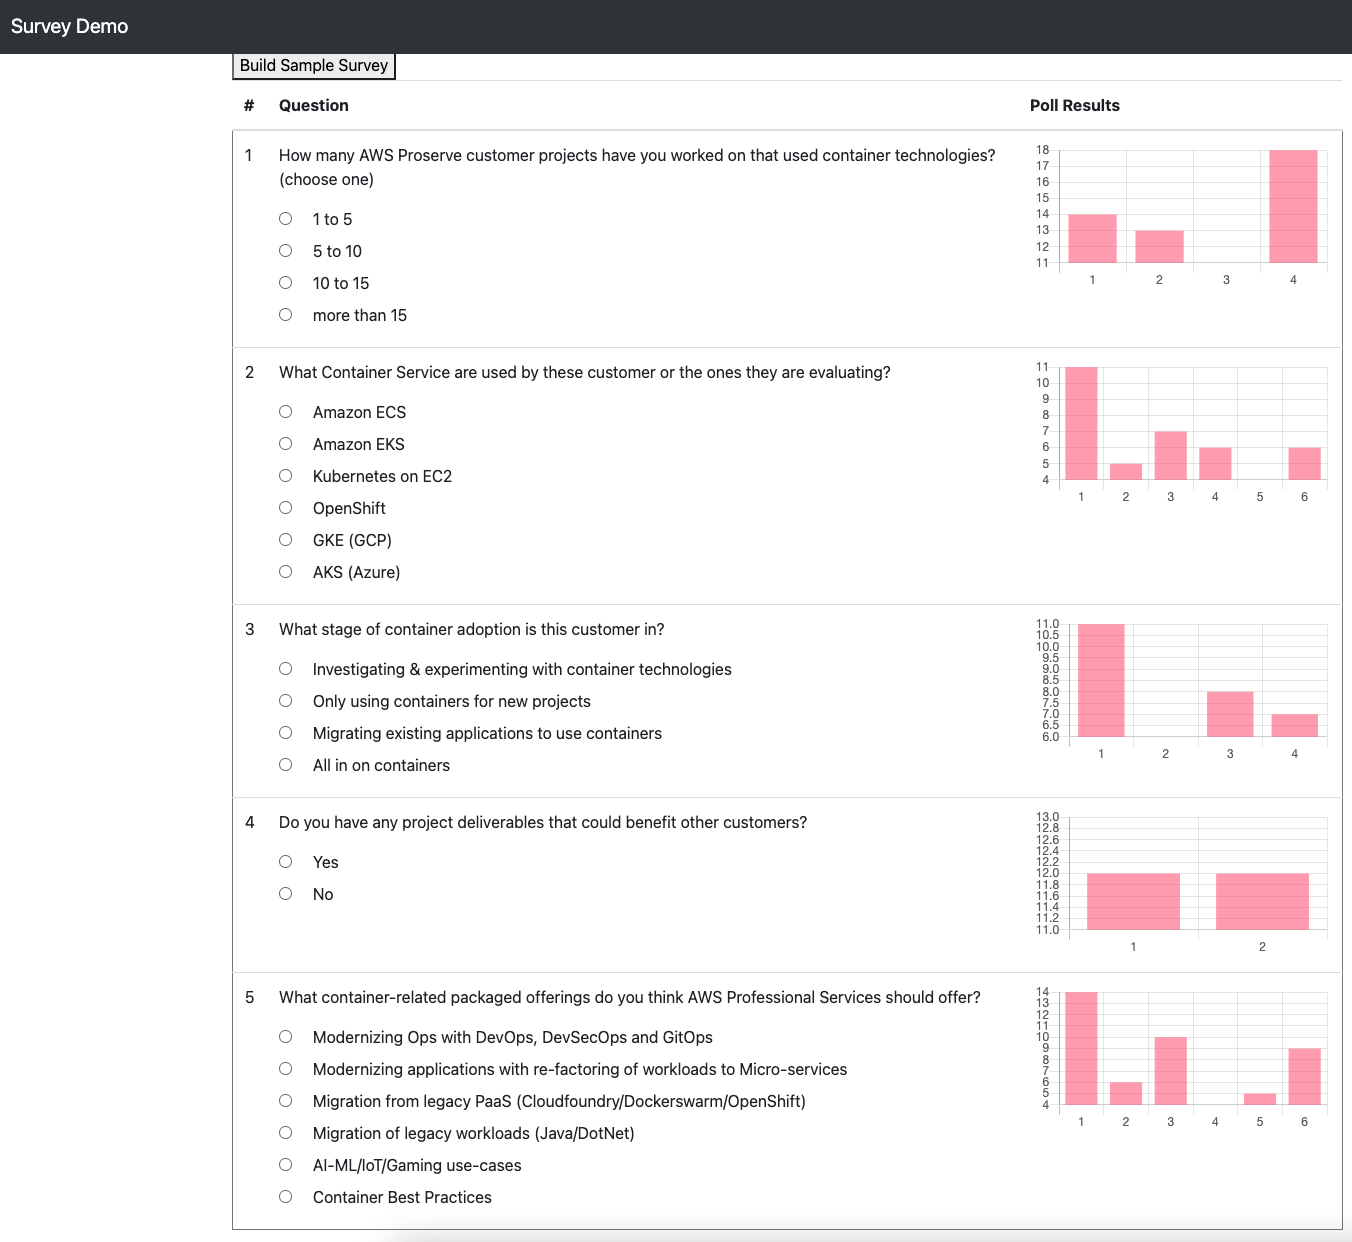
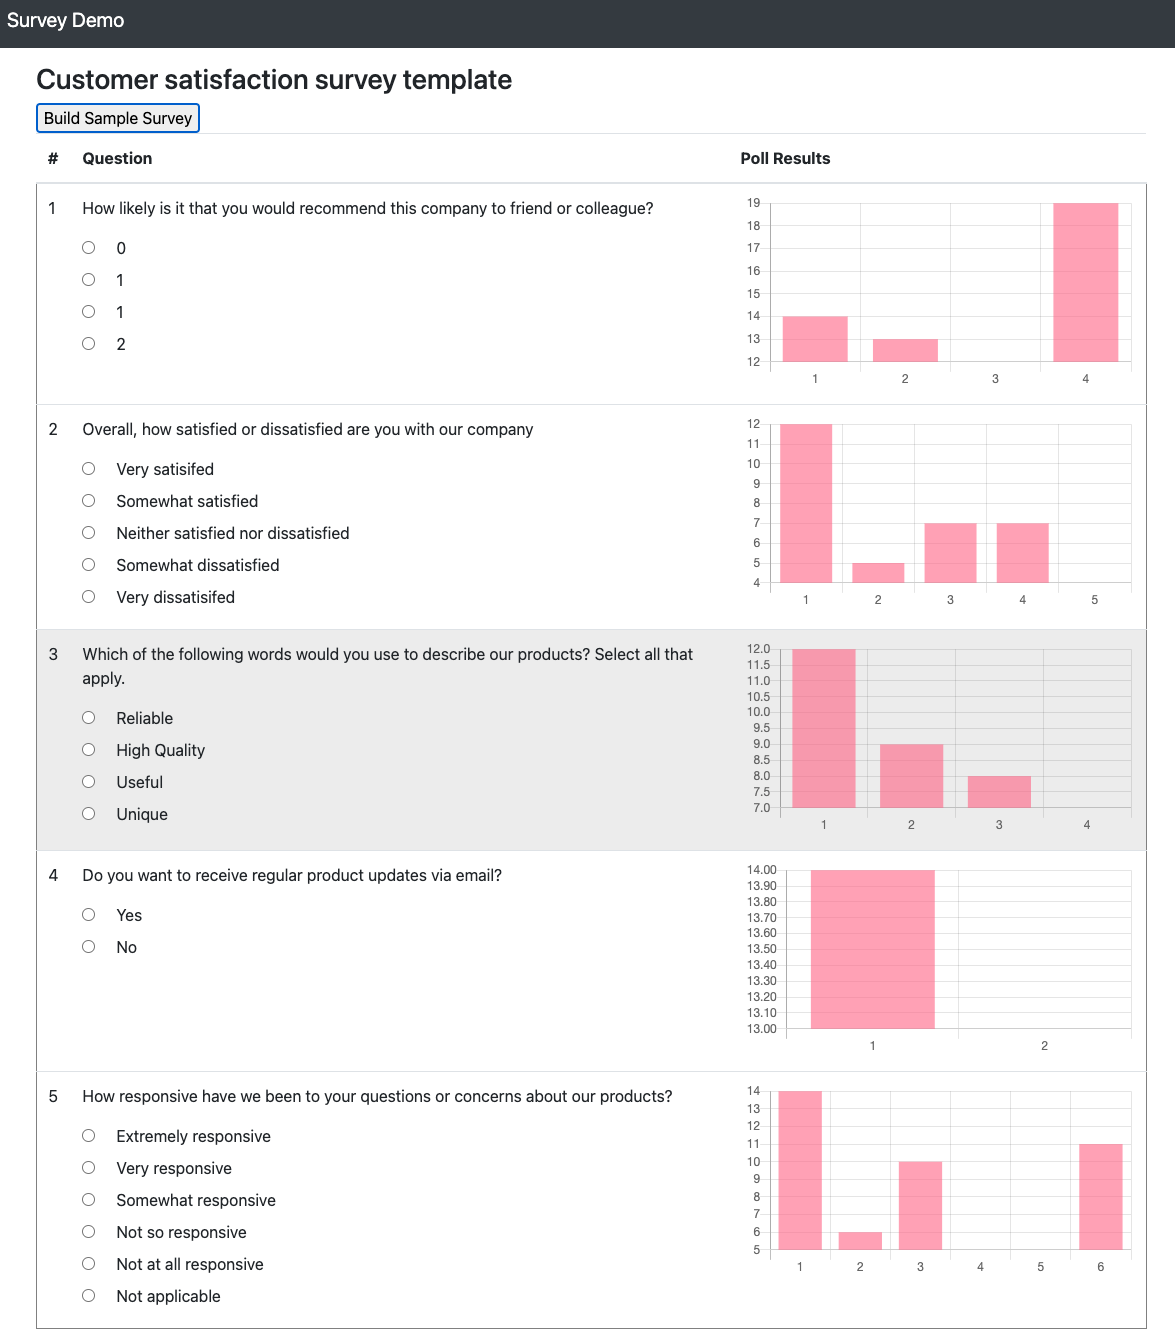
Updates to README.md and code artifacts

diff --git a/frontend/src/environments/environment.ts b/frontend/src/environments/environment.ts
@@ -4,7 +4,7 @@
 
 export const environment = {
   production: false,
-  baseUrl: 'https://7a2u58njwf.execute-api.us-east-1.amazonaws.com/Prod/'
+  baseUrl: 'https://o0atj0j20f.execute-api.us-east-1.amazonaws.com/Prod'
 };
 
 /*

diff --git a/backend/survey/db/data.go b/backend/survey/db/data.go
@@ -1,5 +1,5 @@
 package db
 
-const(
-	DynamodbItems = "[\n  {\n    \"SurveyId\": {\n      \"S\": \"fec497b1-5783-4063-b03e-9b4ea8bf8532\"\n    },\n    \"SurveyName\": {\n      \"S\": \"ProServe Container insights\"\n    },\n    \"answer_0_vote\": {\n      \"N\": \"14\"\n    },\n    \"answer_3_vote\": {\n      \"N\": \"18\"\n    },\n    \"answer_0_label\": {\n      \"S\": \"1 to 5\"\n    },\n    \"answer_3_label\": {\n      \"S\": \"more than 15\"\n    },\n    \"answer_2_label\": {\n      \"S\": \"10 to 15\"\n    },\n    \"answer_1_vote\": {\n      \"N\": \"13\"\n    },\n    \"answer_2_vote\": {\n      \"N\": \"11\"\n    },\n    \"Question\": {\n      \"S\": \"How many AWS Proserve customer projects have you worked on that used container technologies? (choose one)\"\n    },\n    \"answer_1_label\": {\n      \"S\": \"5 to 10\"\n    },\n    \"QuestionId\": {\n      \"N\": \"0\"\n    }\n  },\n  {\n    \"SurveyId\": {\n      \"S\": \"fec497b1-5783-4063-b03e-9b4ea8bf8532\"\n    },\n    \"SurveyName\": {\n      \"S\": \"ProServe Container insights\"\n    },\n    \"answer_3_label\": {\n      \"S\": \"OpenShift\"\n    },\n    \"answer_2_label\": {\n      \"S\": \"Kubernetes on EC2\"\n    },\n    \"answer_5_vote\": {\n      \"N\": \"6\"\n    },\n    \"answer_1_vote\": {\n      \"N\": \"5\"\n    },\n    \"answer_2_vote\": {\n      \"N\": \"7\"\n    },\n    \"Question\": {\n      \"S\": \"What Container Service are used by these customer or the ones they are evaluating?\"\n    },\n    \"answer_4_vote\": {\n      \"N\": \"4\"\n    },\n    \"answer_0_vote\": {\n      \"N\": \"11\"\n    },\n    \"answer_3_vote\": {\n      \"N\": \"6\"\n    },\n    \"answer_0_label\": {\n      \"S\": \"Amazon ECS\"\n    },\n    \"answer_4_label\": {\n      \"S\": \"GKE (GCP)\"\n    },\n    \"answer_1_label\": {\n      \"S\": \"Amazon EKS\"\n    },\n    \"QuestionId\": {\n      \"N\": \"1\"\n    },\n    \"answer_5_label\": {\n      \"S\": \"AKS (Azure)\"\n    }\n  },\n  {\n    \"SurveyId\": {\n      \"S\": \"fec497b1-5783-4063-b03e-9b4ea8bf8532\"\n    },\n    \"SurveyName\": {\n      \"S\": \"ProServe Container insights\"\n    },\n    \"answer_0_vote\": {\n      \"N\": \"11\"\n    },\n    \"answer_3_vote\": {\n      \"N\": \"7\"\n    },\n    \"answer_0_label\": {\n      \"S\": \"Investigating & experimenting with container technologies\"\n    },\n    \"answer_3_label\": {\n      \"S\": \"All in on containers\"\n    },\n    \"answer_2_label\": {\n      \"S\": \"Migrating existing applications to use containers\"\n    },\n    \"answer_1_vote\": {\n      \"N\": \"6\"\n    },\n    \"answer_2_vote\": {\n      \"N\": \"8\"\n    },\n    \"Question\": {\n      \"S\": \"What stage of container adoption is this customer in?\"\n    },\n    \"answer_1_label\": {\n      \"S\": \"Only using containers for new projects\"\n    },\n    \"QuestionId\": {\n      \"N\": \"2\"\n    }\n  },\n  {\n    \"SurveyId\": {\n      \"S\": \"fec497b1-5783-4063-b03e-9b4ea8bf8532\"\n    },\n    \"SurveyName\": {\n      \"S\": \"ProServe Container insights\"\n    },\n    \"answer_0_vote\": {\n      \"N\": \"12\"\n    },\n    \"answer_0_label\": {\n      \"S\": \"Yes\"\n    },\n    \"answer_1_vote\": {\n      \"N\": \"12\"\n    },\n    \"Question\": {\n      \"S\": \"Do you have any project deliverables that could benefit other customers?\"\n    },\n    \"answer_1_label\": {\n      \"S\": \"No\"\n    },\n    \"QuestionId\": {\n      \"N\": \"3\"\n    }\n  },\n  {\n    \"SurveyId\": {\n      \"S\": \"fec497b1-5783-4063-b03e-9b4ea8bf8532\"\n    },\n    \"SurveyName\": {\n      \"S\": \"ProServe Container insights\"\n    },\n    \"answer_3_label\": {\n      \"S\": \"Migration of legacy workloads (Java/DotNet)\"\n    },\n    \"answer_2_label\": {\n      \"S\": \"Migration from legacy PaaS (Cloudfoundry/Dockerswarm/OpenShift)\"\n    },\n    \"answer_5_vote\": {\n      \"N\": \"9\"\n    },\n    \"answer_1_vote\": {\n      \"N\": \"6\"\n    },\n    \"answer_2_vote\": {\n      \"N\": \"10\"\n    },\n    \"Question\": {\n      \"S\": \"What container-related packaged offerings do you think AWS Professional Services should offer?\"\n    },\n    \"answer_4_vote\": {\n      \"N\": \"5\"\n    },\n    \"answer_0_vote\": {\n      \"N\": \"14\"\n    },\n    \"answer_3_vote\": {\n      \"N\": \"4\"\n    },\n    \"answer_0_label\": {\n      \"S\": \"Modernizing Ops with DevOps, DevSecOps and GitOps\"\n    },\n    \"answer_4_label\": {\n      \"S\": \"AI-ML/IoT/Gaming use-cases\"\n    },\n    \"answer_1_label\": {\n      \"S\": \"Modernizing applications with re-factoring of workloads to Micro-services\"\n    },\n    \"QuestionId\": {\n      \"N\": \"4\"\n    },\n    \"answer_5_label\": {\n      \"S\": \"Container Best Practices\"\n    }\n  }\n]"
+const (
+	DynamodbItems = "[{\"SurveyId\": {\"S\": \"fec497b1-5783-4063-b03e-9b4ea8bf8532\"}, \"SurveyName\": {\"S\": \"Customer satisfaction survey template\"}, \"answer_0_vote\": {\"N\": \"14\"}, \"answer_3_vote\": {\"N\": \"18\"}, \"answer_0_label\": {\"S\": \"0\"}, \"answer_3_label\": {\"S\": \"2\"}, \"answer_2_label\": {\"S\": \"1\"}, \"answer_1_vote\": {\"N\": \"13\"}, \"answer_2_vote\": {\"N\": \"11\"}, \"Question\": {\"S\": \"How likely is it that you would recommend this company to friend or colleague?\"}, \"answer_1_label\": {\"S\": \"1\"}, \"QuestionId\": {\"N\": \"0\"} }, {\"SurveyId\": {\"S\": \"fec497b1-5783-4063-b03e-9b4ea8bf8532\"}, \"SurveyName\": {\"S\": \"Customer satisfaction survey template\"}, \"answer_3_label\": {\"S\": \"Somewhat dissatisfied\"}, \"answer_2_label\": {\"S\": \"Neither satisfied nor dissatisfied\"}, \"answer_1_vote\": {\"N\": \"5\"}, \"answer_2_vote\": {\"N\": \"7\"}, \"Question\": {\"S\": \"Overall, how satisfied or dissatisfied are you with our company\"}, \"answer_4_vote\": {\"N\": \"4\"}, \"answer_0_vote\": {\"N\": \"11\"}, \"answer_3_vote\": {\"N\": \"6\"}, \"answer_0_label\": {\"S\": \"Very satisifed\"}, \"answer_4_label\": {\"S\": \"Very dissatisifed\"}, \"answer_1_label\": {\"S\": \"Somewhat satisfied\"}, \"QuestionId\": {\"N\": \"1\"} }, {\"SurveyId\": {\"S\": \"fec497b1-5783-4063-b03e-9b4ea8bf8532\"}, \"SurveyName\": {\"S\": \"Customer satisfaction survey template\"}, \"answer_0_vote\": {\"N\": \"11\"}, \"answer_3_vote\": {\"N\": \"7\"}, \"answer_0_label\": {\"S\": \"Reliable\"}, \"answer_3_label\": {\"S\": \"Unique\"}, \"answer_2_label\": {\"S\": \"Useful\"}, \"answer_1_vote\": {\"N\": \"6\"}, \"answer_2_vote\": {\"N\": \"8\"}, \"Question\": {\"S\": \"Which of the following words would you use to describe our products? Select all that apply.\"}, \"answer_1_label\": {\"S\": \"High Quality\"}, \"QuestionId\": {\"N\": \"2\"} }, {\"SurveyId\": {\"S\": \"fec497b1-5783-4063-b03e-9b4ea8bf8532\"}, \"SurveyName\": {\"S\": \"Customer satisfaction survey template\"}, \"answer_0_vote\": {\"N\": \"12\"}, \"answer_0_label\": {\"S\": \"Yes\"}, \"answer_1_vote\": {\"N\": \"12\"}, \"Question\": {\"S\": \"Do you want to receive regular product updates via email?\"}, \"answer_1_label\": {\"S\": \"No\"}, \"QuestionId\": {\"N\": \"3\"} }, {\"SurveyId\": {\"S\": \"fec497b1-5783-4063-b03e-9b4ea8bf8532\"}, \"SurveyName\": {\"S\": \"Customer satisfaction survey template\"}, \"answer_3_label\": {\"S\": \"Not so responsive\"}, \"answer_2_label\": {\"S\": \"Somewhat responsive\"}, \"answer_5_vote\": {\"N\": \"9\"}, \"answer_1_vote\": {\"N\": \"6\"}, \"answer_2_vote\": {\"N\": \"10\"}, \"Question\": {\"S\": \"How responsive have we been to your questions or concerns about our products?\"}, \"answer_4_vote\": {\"N\": \"5\"}, \"answer_0_vote\": {\"N\": \"14\"}, \"answer_3_vote\": {\"N\": \"4\"}, \"answer_0_label\": {\"S\": \"Extremely responsive\"}, \"answer_4_label\": {\"S\": \"Not at all responsive\"}, \"answer_1_label\": {\"S\": \"Very responsive\"}, \"QuestionId\": {\"N\": \"4\"}, \"answer_5_label\": {\"S\": \"Not applicable\"} } ]"
 )

diff --git a/README.md b/README.md
@@ -230,7 +230,7 @@ Value               arn:aws:s3:::s3hosting-app-s3bucket-xxxx
 * Navigate to `frontend/dist/vote-angular-app` and run the following command
 
 ```bash
-> aws s3 sync * s3://<<s3-bucket>>
+> aws s3 sync . s3://<<s3-bucket>>
 ```
 
 > Replace the S3 bucket with the generated S3 bucket name.
